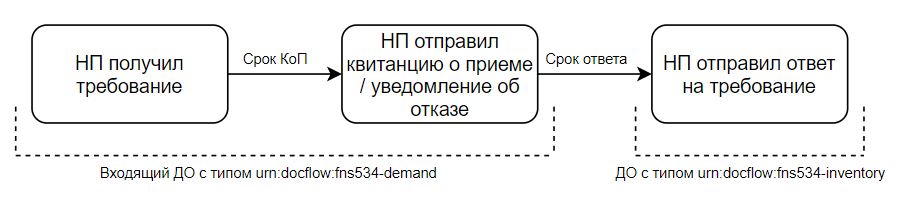
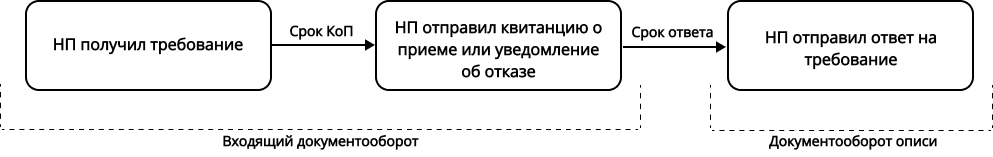
add demand

diff --git a/docs/knowledge base/demand.rst b/docs/knowledge base/demand.rst
@@ -19,7 +19,9 @@
 
 1. Получение списка требований.
 2. Работа с входящим документооборотом.
-3. Ответ на требование (документ описи).
+3. Ответ на требование (документооборот описи).
+
+Данные три этапа относятся к двум типам документооборотов: работа с входящим требованием и работа с документооборотом описи.
 
 .. image:: /_static/demand.png
 
@@ -67,16 +69,16 @@
 Требование о представлении документов (информации) КНД 1165013
     *На требование о представлении документов (информации) нужно отправить опись со списком запрашиваемых документов*.
 
-Тестовые данные
----------------
+Генерация тестовых требований
+-----------------------------
 
-Тестовые входящие требования можно сгенерировать с помощью сервиса `Extern Test Tools`_ двумя способами.
+Тестовые входящие требования можно сгенерировать с помощью сервиса `Extern Test Tools`_ двумя способами: при помощи тестового робота или загрузить готовый файл.
 
-**Первый способ**
+**Генерация с помощью робота**
 
 Можно сгенерировать входящее требование с помощью тестового робота: `POST GenerateDemand`_. При вызове метода заполните КНД требования – параметр ``Knds``.
 
-**Второй способ**
+**Загрузка готового файла**
 
 Можно загрузить уже имеющиеся файлы требования. Сервис Extern Test Tools распознает строки требования и вернет с помощью тестового робота. Для этого:
 

diff --git a/docs/howto/howtodrafts.rst b/docs/howto/howtodrafts.rst
@@ -141,7 +141,7 @@
 Наполнение черновика файлами документов
 ---------------------------------------
 
-Черновик необходимо наполнить файлом отчета, приложениями к отчету и подписями. Главный файл отчета — это всегда xml-файл. К отчету могут идти также приложения и другие связанные файлы, например, доверенность. Каждый файл в черновике нужно загрузить в сервис контентов, а также для каждого файла нужно создавать отдельный документ в черновике при помощи метода `Add document`_. 
+Черновик необходимо наполнить файлом отчета, приложениями к отчету и подписями. Главный файл отчета — это всегда xml-файл. К отчету могут идти также приложения и другие связанные файлы, например, доверенность. Каждый файл в черновике нужно загрузить в :ref:`сервис контентов<rst-markup-content>`, а также для каждого файла нужно создавать отдельный документ в черновике при помощи метода `Add document`_. 
 
 Для более гибкой работы с файлами предусмотрена возможность также создать пустой документ в черновике, чтобы в дальнейшем методом PUT положить контент файла.  
 

diff --git a/docs/knowledge base/DraftsBuilder.rst b/docs/knowledge base/DraftsBuilder.rst
@@ -167,11 +167,11 @@ DraftsBuilder состоит из трех сущностей:
 
 3. Загрузите файлы в :ref:`Сервис контентов<rst-markup-load>`.
 
-3. Добавьте файлы: :ref:`POST CreateDraftsBuilderDocumentFile<rst-markup-createfileDB>`.
+4. Добавьте файлы: :ref:`POST CreateDraftsBuilderDocumentFile<rst-markup-createfileDB>`.
  
  Метод создает файл в документе. Для этого укажите идентификатор контента из Сервиса контентов. Вызывайте столько раз, сколько файлов нужно положить в документ-контейнер.
 
-4. Соберите DraftsBuilder в черновик: :ref:`POST BuildDrafts<rst-markup-buildDB>`.
+5. Соберите DraftsBuilder в черновик: :ref:`POST BuildDrafts<rst-markup-buildDB>`.
 
  Метод собирает все добавленные файлы и документы DraftsBuilder шаблона в черновики. В результате метод вернет идентификаторы черновиков, в каждом из которых находится: XML-файл описи или XML-файл обращения, файлы, сообщение о представительстве (если есть).
 

diff --git a/docs/knowledge base/content.rst b/docs/knowledge base/content.rst
@@ -1,3 +1,4 @@
+.. _rst-markup-content:
 Сервис контентов
 ================
 
